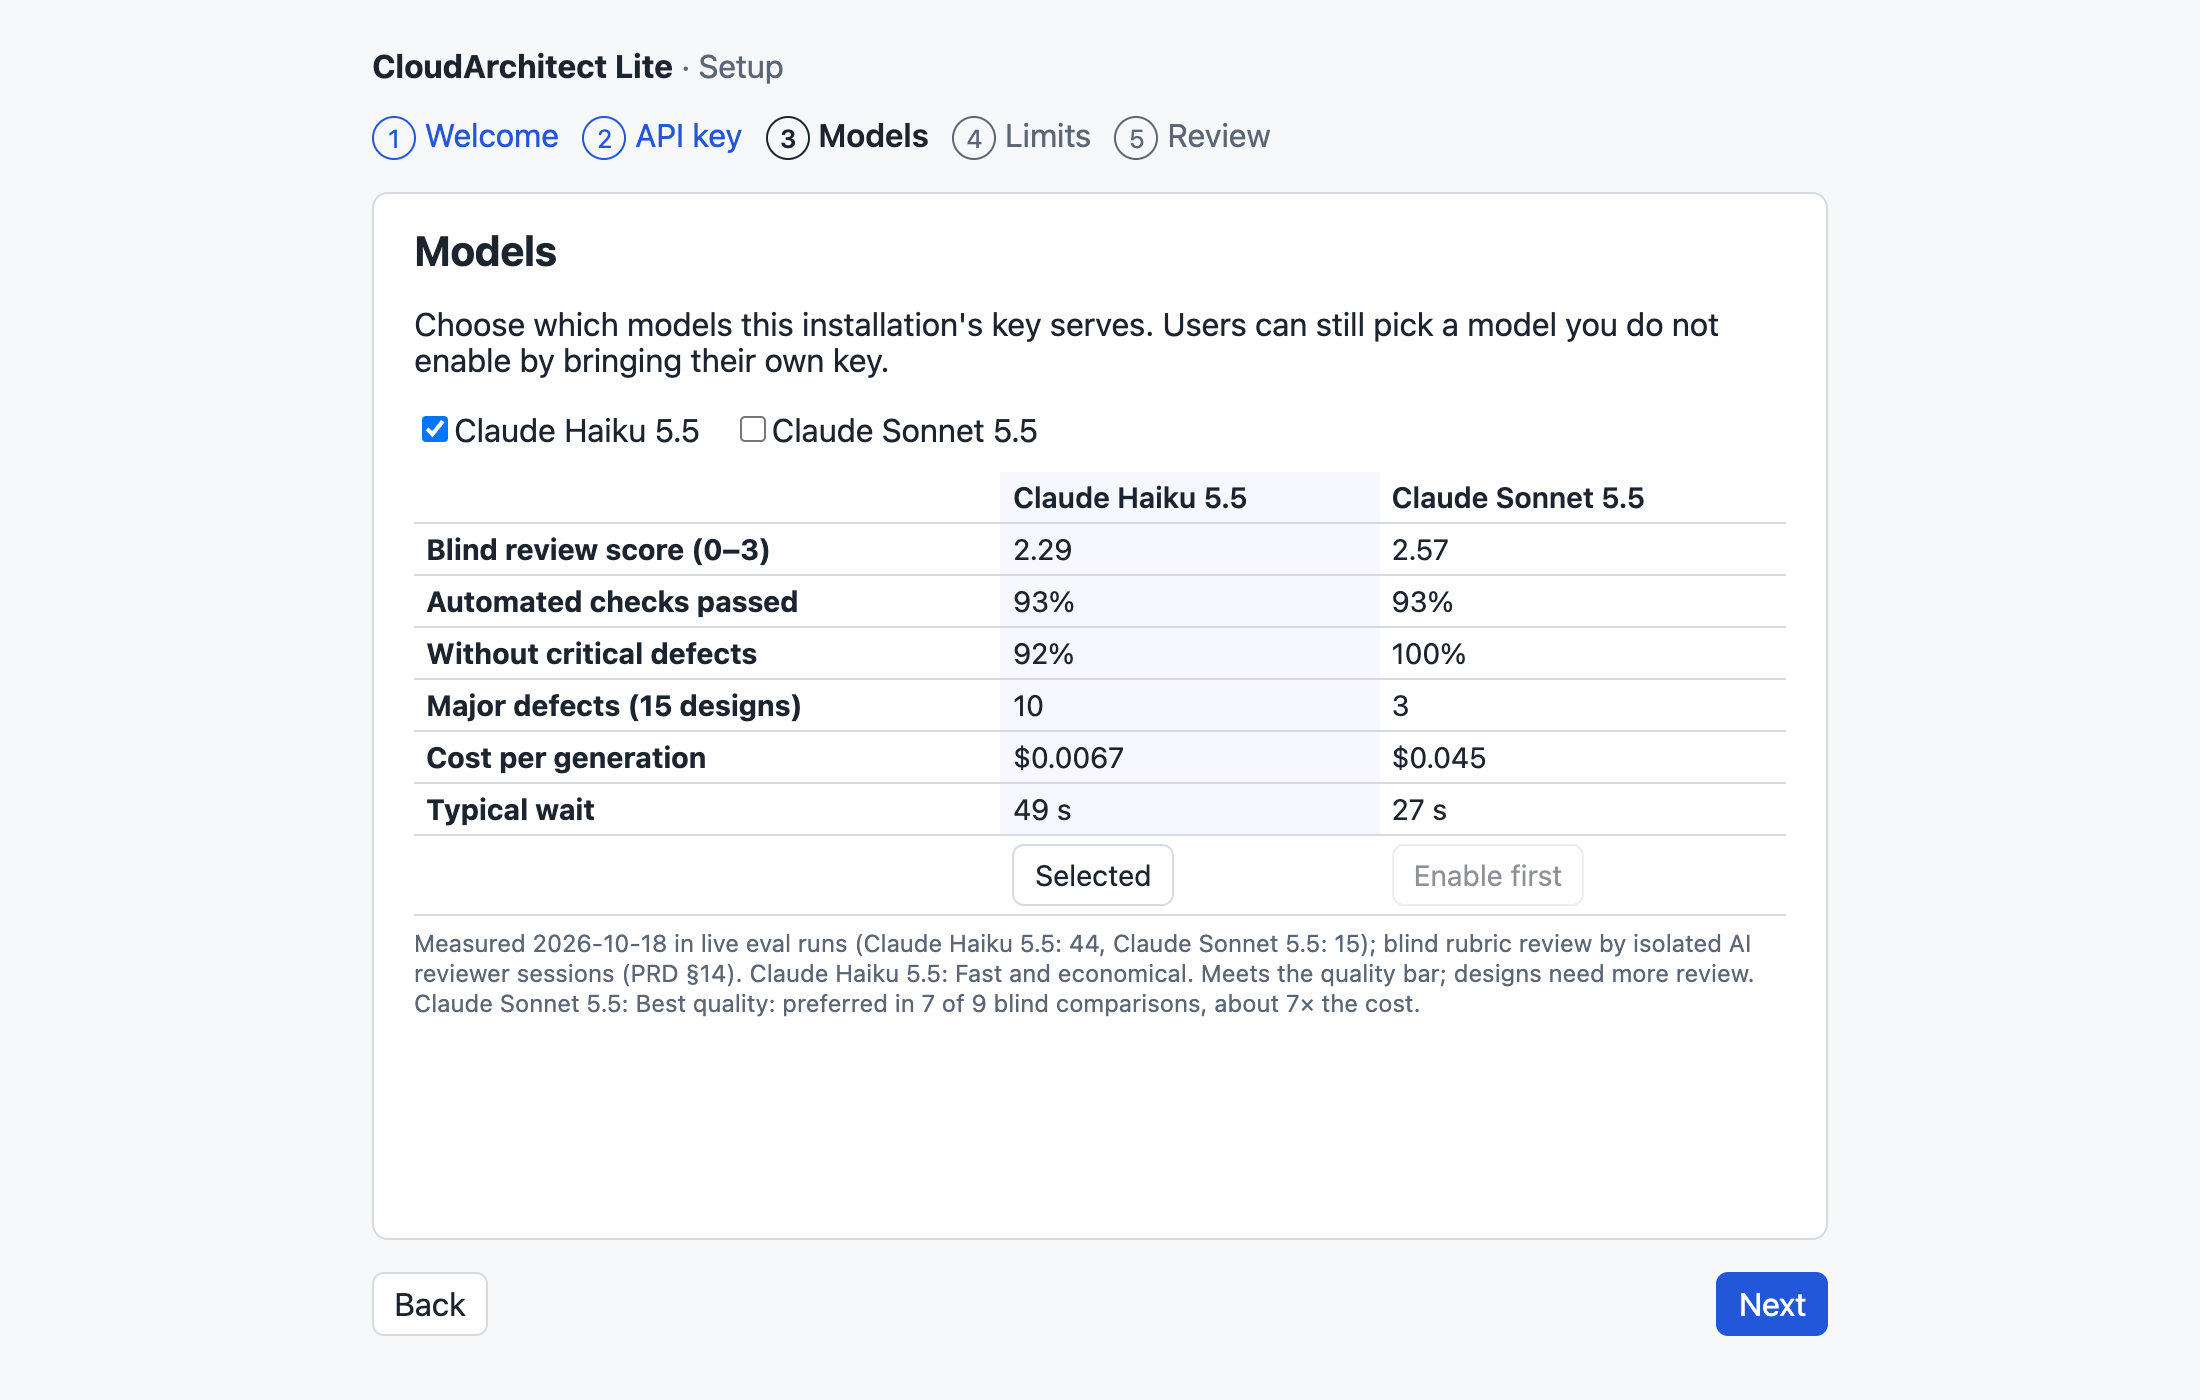
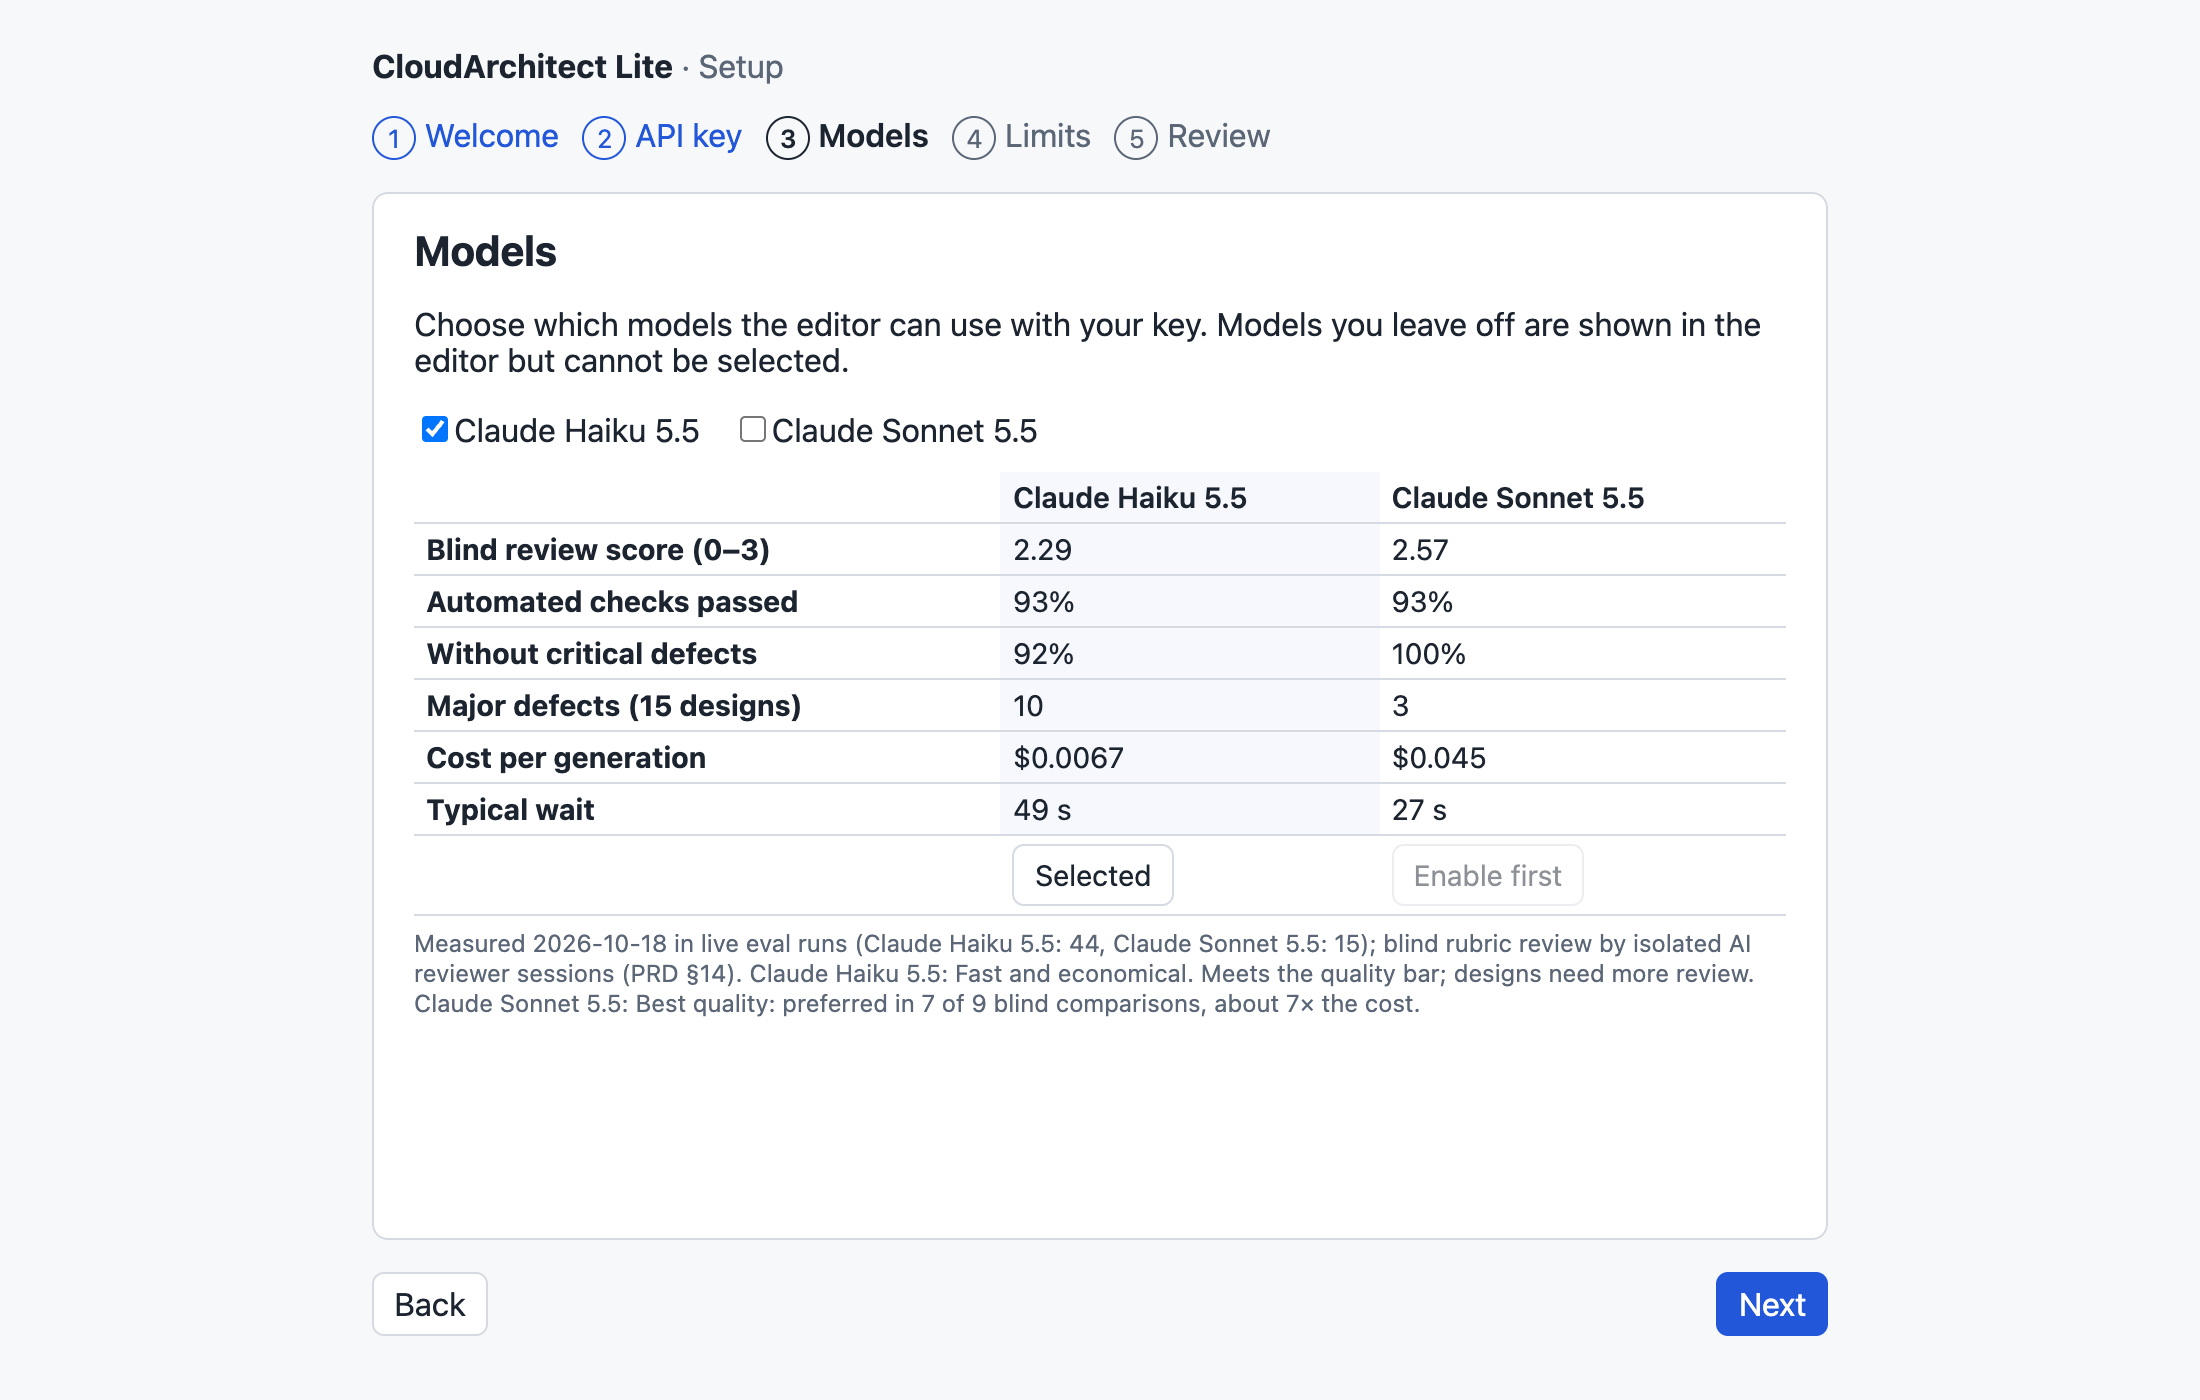
fix(setup): remove bring-your-own-key and per-visitor wording; release 0.2.1
The Models step said users can pick a model the owner did not enable by
bringing their own key, which 0.2.0 removed; models left off are shown
in the editor but cannot be selected. The rate limit now reads
"AI requests per minute". Versions, compose.yaml image tags and install
links move to 0.2.1; setup and editor screenshots regenerated.

Changed region(s): [[0.1855, 0.215, 0.8036, 0.2764]]

diff --git a/apps/web/src/SetupWizard.tsx b/apps/web/src/SetupWizard.tsx
@@ -249,8 +249,8 @@ export function SetupWizard() {
           <section>
             <h1>Models</h1>
             <p>
-              Choose which models this installation&apos;s key serves. Users can still pick a model
-              you do not enable by bringing their own key.
+              Choose which models the editor can use with your key. Models you leave off are shown
+              in the editor but cannot be selected.
             </p>
             <Locked status={status} keys={['AI_MODELS', 'DEFAULT_MODEL']} />
             <div className="choices">
@@ -284,7 +284,7 @@ export function SetupWizard() {
             />
             <div className="grid2">
               <NumberField
-                label="Requests per minute per visitor"
+                label="AI requests per minute"
                 disabled={isLocked('RATE_LIMIT_PER_MINUTE')}
                 value={rateLimitPerMinute}
                 min={1}
@@ -336,7 +336,7 @@ export function SetupWizard() {
                 ${dailyBudgetUsd} per day, ${monthlyBudgetUsd} per month
               </dd>
               <dt>Rate limit</dt>
-              <dd>{rateLimitPerMinute} requests per minute per visitor</dd>
+              <dd>{rateLimitPerMinute} AI requests per minute</dd>
             </dl>
           </section>
         )}

diff --git a/docs/operations/installation.md b/docs/operations/installation.md
@@ -21,13 +21,13 @@ Run one command in an empty folder. It downloads `compose.yaml` and starts the p
 **macOS and Linux**
 
 ```bash
-curl -fsSLO https://raw.githubusercontent.com/aliaksandr-liapin/cloudarchitect-lite/v0.2.0/compose.yaml && docker compose up
+curl -fsSLO https://raw.githubusercontent.com/aliaksandr-liapin/cloudarchitect-lite/v0.2.1/compose.yaml && docker compose up
 ```
 
 **Windows (PowerShell)**
 
 ```powershell
-curl.exe -fsSLO https://raw.githubusercontent.com/aliaksandr-liapin/cloudarchitect-lite/v0.2.0/compose.yaml; docker compose up
+curl.exe -fsSLO https://raw.githubusercontent.com/aliaksandr-liapin/cloudarchitect-lite/v0.2.1/compose.yaml; docker compose up
 ```
 
 The images are multi-architecture (Intel/AMD and Arm). Tested on macOS (Apple silicon) and Linux (CI). Windows 11 on Arm: hand test by the maintainer before the public release. Windows on Intel/AMD is expected to work but has not been tested by hand.
@@ -92,7 +92,7 @@ Run these commands **in the same folder** as the original install. Docker names 
 
 ```bash
 cd path/to/your/install/folder
-VERSION=0.2.0   # the version you upgrade to
+VERSION=0.2.1   # the version you upgrade to
 curl -fsSLO "https://raw.githubusercontent.com/aliaksandr-liapin/cloudarchitect-lite/v$VERSION/compose.yaml"
 docker compose pull && docker compose up -d
 ```
@@ -101,7 +101,7 @@ docker compose pull && docker compose up -d
 
 ```powershell
 cd path\to\your\install\folder
-$Version = '0.2.0'   # the version you upgrade to
+$Version = '0.2.1'   # the version you upgrade to
 curl.exe -fsSLO "https://raw.githubusercontent.com/aliaksandr-liapin/cloudarchitect-lite/v$Version/compose.yaml"
 docker compose pull; docker compose up -d
 ```

diff --git a/CHANGELOG.md b/CHANGELOG.md
@@ -4,6 +4,12 @@ All notable changes are recorded here. The format follows [Keep a Changelog](htt
 
 ## [Unreleased]
 
+## [0.2.1] - 2026-11-04
+
+### Fixed
+
+- Setup wizard: the Models step no longer mentions bringing your own key (removed in 0.2.0) and says that models left off cannot be selected in the editor; the rate limit is labelled "AI requests per minute" instead of "per visitor".
+
 ## [0.2.0] - 2026-11-04
 
 First public release. Includes the Phase 2 work below and a self-hosted install anyone can run.
@@ -65,6 +71,7 @@ First tagged pre-alpha. AI generation is not implemented yet.
 - CI: lint, typecheck, tests, build, eval harness, image builds with Trivy scans, install smoke test, CodeQL (fails on any finding), `pnpm audit`, gitleaks; release workflow with SBOM and build provenance.
 - Apache-2.0 license, NOTICE, code of conduct, support guide; README screenshots and an illustrated setup guide (`pnpm screenshots` regenerates them).
 
-[Unreleased]: https://github.com/aliaksandr-liapin/cloudarchitect-lite/compare/v0.2.0...HEAD
+[Unreleased]: https://github.com/aliaksandr-liapin/cloudarchitect-lite/compare/v0.2.1...HEAD
+[0.2.1]: https://github.com/aliaksandr-liapin/cloudarchitect-lite/compare/v0.2.0...v0.2.1
 [0.2.0]: https://github.com/aliaksandr-liapin/cloudarchitect-lite/compare/v0.1.0...v0.2.0
 [0.1.0]: https://github.com/aliaksandr-liapin/cloudarchitect-lite/releases/tag/v0.1.0

diff --git a/README.md b/README.md
@@ -20,13 +20,13 @@ You need [Docker](https://docs.docker.com/get-docker/) and an [Anthropic API key
 macOS and Linux:
 
 ```bash
-curl -fsSLO https://raw.githubusercontent.com/aliaksandr-liapin/cloudarchitect-lite/v0.2.0/compose.yaml && docker compose up
+curl -fsSLO https://raw.githubusercontent.com/aliaksandr-liapin/cloudarchitect-lite/v0.2.1/compose.yaml && docker compose up
 ```
 
 Windows (PowerShell):
 
 ```powershell
-curl.exe -fsSLO https://raw.githubusercontent.com/aliaksandr-liapin/cloudarchitect-lite/v0.2.0/compose.yaml; docker compose up
+curl.exe -fsSLO https://raw.githubusercontent.com/aliaksandr-liapin/cloudarchitect-lite/v0.2.1/compose.yaml; docker compose up
 ```
 
 Open the setup link printed in the terminal. A short wizard checks your key, lets you pick a model and sets your daily and monthly spending limits. Then the editor is at <http://localhost:8080>.

diff --git a/docs/launch/0.2/devto.md b/docs/launch/0.2/devto.md
@@ -78,7 +78,7 @@ Read those numbers with care:
 You need Docker and your own Anthropic API key. Your keys and projects stay on your machine, and prompts go only to Anthropic.
 
 ```bash
-curl -fsSLO https://raw.githubusercontent.com/aliaksandr-liapin/cloudarchitect-lite/v0.2.0/compose.yaml && docker compose up
+curl -fsSLO https://raw.githubusercontent.com/aliaksandr-liapin/cloudarchitect-lite/v0.2.1/compose.yaml && docker compose up
 ```
 
 A short setup wizard checks the key, lets you choose Haiku or Sonnet and sets daily and monthly spending limits. On Windows, use PowerShell with `curl.exe` as shown in the README. I have tested macOS on Apple Silicon and Linux in CI; Windows is covered by the README but has had less testing.
